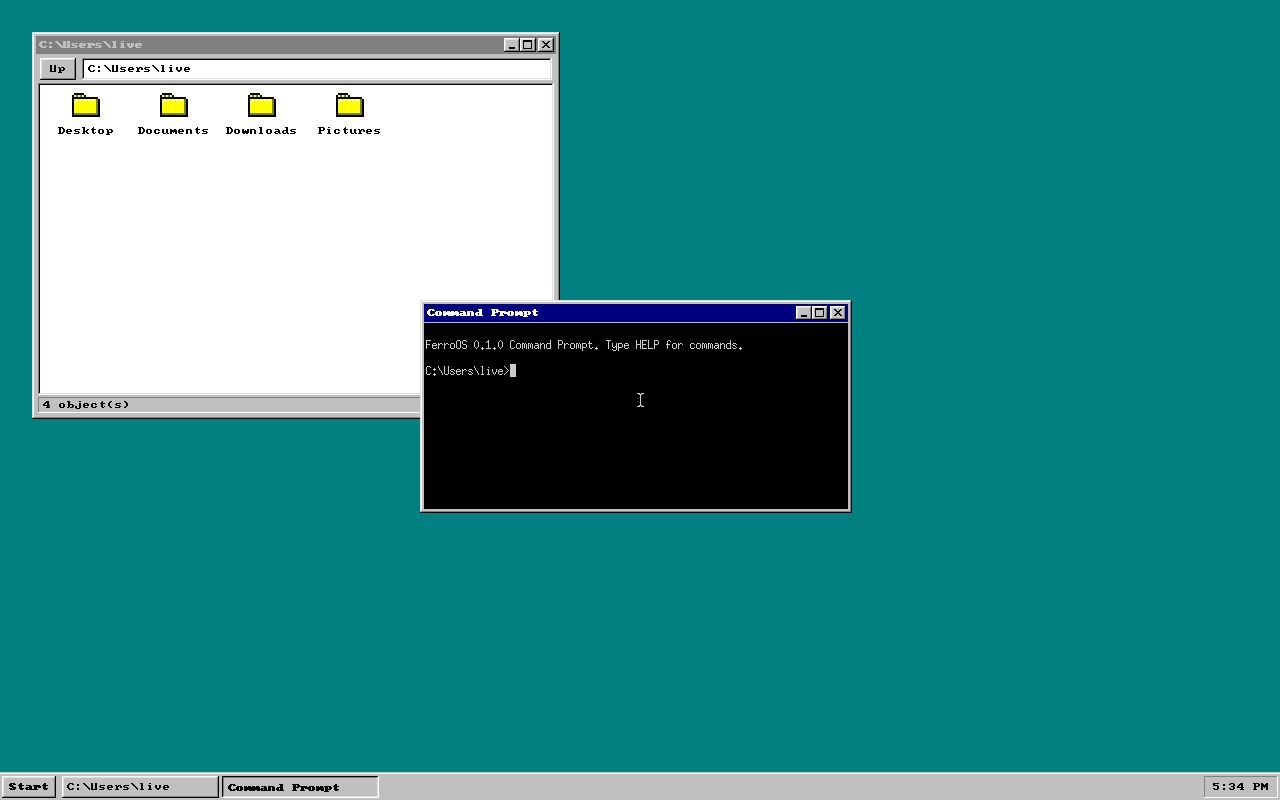
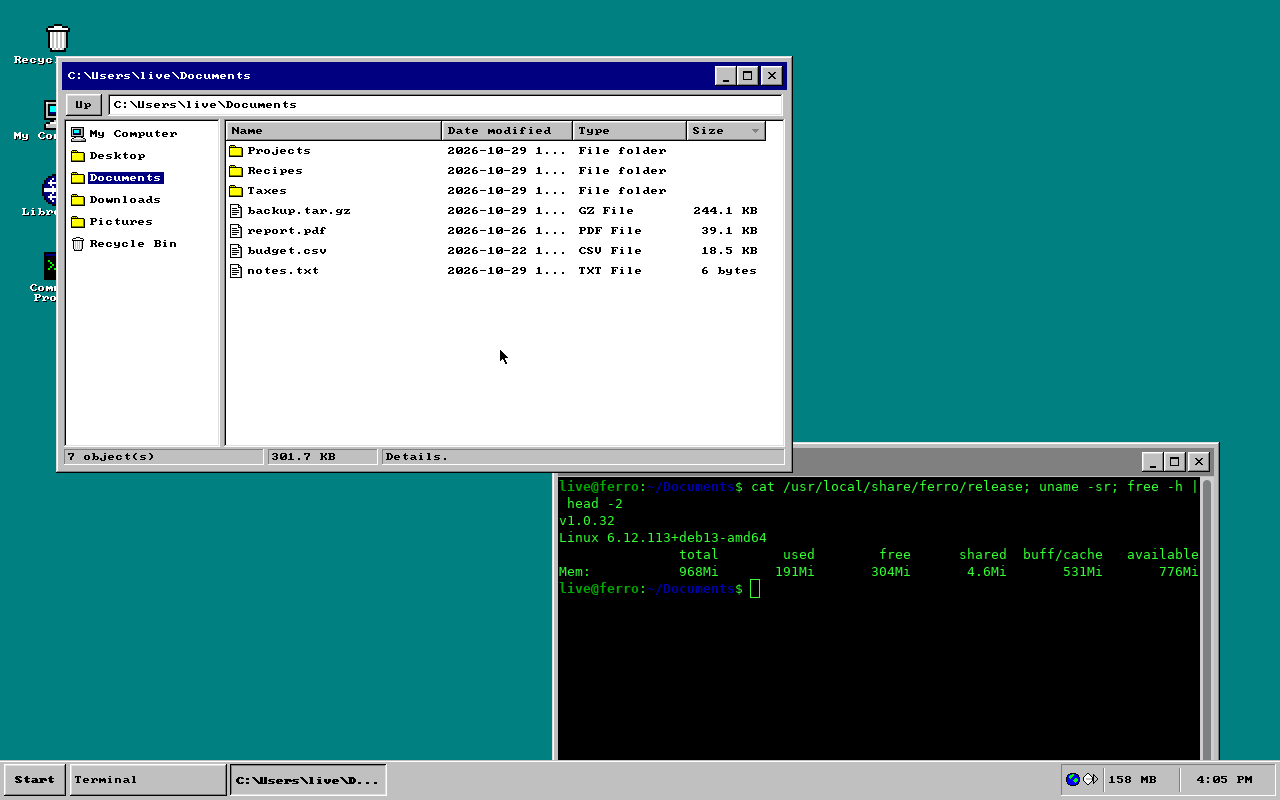
Screenshots: retaken on v1.0.32
The README's pictures were of early builds (a white desktop, 800x600 Lite screens, FerroOS 0.1.0). All nine are retaken from the v1.0.32 ISO, booted as a live session in a VM with no network, at 1280x800: the desktop, Start menu, File Manager and Command Prompt, Task Manager and its RAM budget, Display Properties, the privacy flyout, Setup's encryption page and the logon box. Two captions now say what their pictures show.

diff --git a/README.md b/README.md
@@ -54,9 +54,9 @@ FerroOS Heavy delivers a responsive, nostalgic Windows 95 user interface designe
 | | |
 |---|---|
 | ![Start Menu](docs/screenshots/heavy-start-menu.png) | ![Files and Prompt](docs/screenshots/heavy-files-and-prompt.png) |
-| *Authentic Windows 95 Start menu with cascading flyouts* | *File Manager with context menus & phosphor green prompt* |
+| *Authentic Windows 95 Start menu with cascading flyouts* | *File Manager in Details view, sorted by size, beside the green Command Prompt* |
 | ![Task Manager](docs/screenshots/heavy-taskmgr.png) | ![Display Properties](docs/screenshots/heavy-window-manager.png) |
-| *Task Manager with per-process RAM quotas and performance graph* | *Display Properties CRT preview and window management* |
+| *Task Manager's process tree, with each process's owner and RAM budget* | *Display Properties CRT preview and window management* |
 
 ### Authentic Windows 95 Start Menu
 - Dark embossed vertical banner ("FerroOS") and generous 34px item heights with crisp retro icons.
